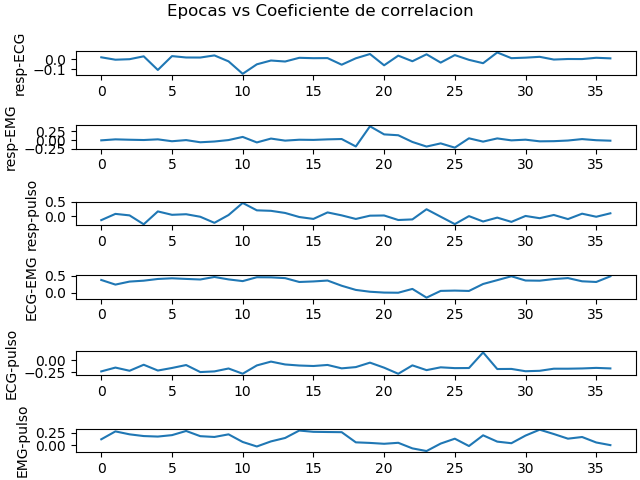
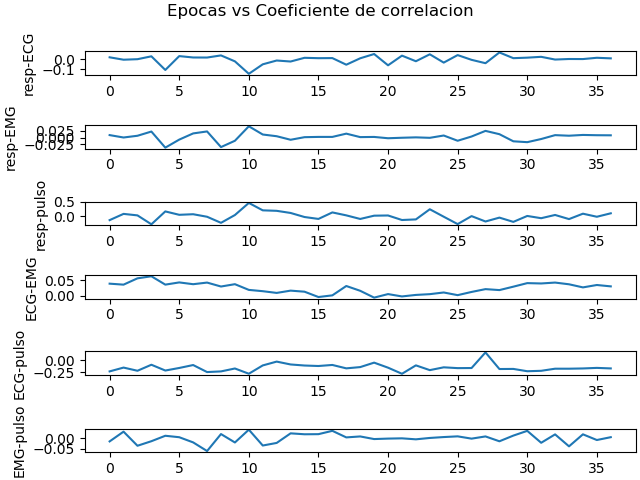
Ejercicio 2 terminado

diff --git a/src/practica3.py b/src/practica3.py
@@ -38,7 +38,6 @@ ax3.plot(t, pulso_f); ax3.set(ylabel='Pulso', xlabel='Tiempo [seg]')
 fig.suptitle('Eliminación de tendencia lineal y filtrado')
 fig.savefig(datapath + '\\..\\images\\Practica 3\\Detrendedyfilt.png')
 
-
 ini = np.array([])
 ini = np.append(ini, [Resp_f[0:15*sr], ECG_f[0:15*sr], EMG[0:15*sr], pulso_f[0:15*sr]]).reshape(4, 15000) 
 ada = np.array([])
@@ -164,40 +163,19 @@ ax0.bar(bins0, hist0, width=0.05, alpha=0.3, label='Etapa inicial');ax0.bar(bins
 fig.suptitle('Histogramas de la señal de pulso reescalada')
 fig.savefig(datapath + '\\..\\images\\Practica 3\\HistPulRee.png')
 
-# Obtenemos envolvente y área de la señal de EMG para sacar la correlación con otras señales
-def envolvente(signal):
-    from scipy.signal import hilbert
-    env = hilbert(signal)
-    env = np.abs(env)
-    A   = env.sum()/sr
-    return env, A
-
-EMGenv, EMGA = envolvente(EMG)
-inienv, iniA = envolvente(iniree[2,:])
-adaenv, adaA = envolvente(adaree[2,:])
-ejeenv, ejeA = envolvente(ejeree[2,:])
-finenv, finA = envolvente(finree[2,:])
-print("""Área de EMG\nEtapa inicial: %.4f"""%iniA)
-print("""Etapa adaptación: %.4f"""%adaA)
-print("""Etapa ejercicio: %.4f"""%ejeA)
-print("""Etapa final: %.4f"""%finA)
-print("""EMG: %.4f"""%EMGA)
-fig, ax = plt.subplots()
-ax.plot(EMGenv)
-
 # Obtenemos segmentos de tiempo de las cuatro señales, la obtener su matriz de correación
 segt = 3
-resp = MCI.epochs(Resp_f, segt, sr)
-ECG  = MCI.epochs(ECG_f, segt, sr)
-EMG  = MCI.epochs(EMGenv, segt, sr)
-pulso = MCI.epochs(pulso_f, segt, sr)
+resp1 = MCI.epochs(Resp_f, segt, sr)
+ECG1  = MCI.epochs(ECG_f, segt, sr)
+EMG1  = MCI.epochs(EMG, segt, sr)
+pulso1 = MCI.epochs(pulso_f, segt, sr)
 
-r1 = MCI.coef_corr(resp, ECG)
-r2 = MCI.coef_corr(resp, EMG)
-r3 = MCI.coef_corr(resp, pulso)
-r4 = MCI.coef_corr(ECG, EMG)
-r5 = MCI.coef_corr(ECG, pulso)
-r6 = MCI.coef_corr(EMG, pulso)
+r1 = MCI.coef_corr(resp1, ECG1)
+r2 = MCI.coef_corr(resp1, EMG1)
+r3 = MCI.coef_corr(resp1, pulso1)
+r4 = MCI.coef_corr(ECG1, EMG1)
+r5 = MCI.coef_corr(ECG1, pulso1)
+r6 = MCI.coef_corr(EMG1, pulso1)
 
 fig, (ax0, ax1, ax2, ax3, ax4, ax5) = plt.subplots(nrows=6, constrained_layout=True)
 ax0.plot(r1); ax0.set(ylabel='resp-ECG')
@@ -209,6 +187,78 @@ ax5.plot(r6); ax5.set(ylabel='EMG-pulso')
 fig.suptitle('Epocas vs Coeficiente de correlacion')
 fig.savefig(datapath + '\\..\\images\\Practica 3\\Correlacion.png')
 
+#Coherencia 
+f, co11 = MCI.cohe(ini[0,:], ini[1, :], sr)
+f, co21 = MCI.cohe(ada[0,:], ada[1,:], sr)
+f, co31 = MCI.cohe(eje[0,:], eje[1,:], sr)
+f, co41 = MCI.cohe(fin[0,:], fin[1, :], sr)
+fig, (ax0, ax1, ax2, ax3) = plt.subplots(nrows=4, constrained_layout=True, sharex=True)
+ax0.plot(f, co11); ax0.set(ylabel='Inicial')
+ax1.plot(f, co21); ax1.set(ylabel='Adaptacion')
+ax2.plot(f, co31); ax2.set(ylabel='Ejercicio')
+ax3.plot(f, co41); ax3.set(xlabel='Hz', ylabel='Final')
+fig.suptitle('Coherencia entre el respirograma y el ECG')
+fig.savefig(datapath + '\\..\\images\\Practica 3\\CohResECG.png')
+
+f, co12 = MCI.cohe(ini[0,:], ini[2, :], sr)
+f, co22 = MCI.cohe(ada[0,:], ada[2,:], sr)
+f, co32 = MCI.cohe(eje[0,:], eje[2,:], sr)
+f, co42 = MCI.cohe(fin[0,:], fin[2, :], sr)
+fig, (ax0, ax1, ax2, ax3) = plt.subplots(nrows=4, constrained_layout=True, sharex=True)
+ax0.plot(f, co12); ax0.set(ylabel='Inicial')
+ax1.plot(f, co22); ax1.set(ylabel='Adaptacion')
+ax2.plot(f, co32); ax2.set(ylabel='Ejercicio')
+ax3.plot(f, co42); ax3.set(xlabel='Hz', ylabel='Final')
+fig.suptitle('Coherencia entre el respirograma y el EMG')
+fig.savefig(datapath + '\\..\\images\\Practica 3\\CohResEMG.png')
+
+f, co13 = MCI.cohe(ini[0,:], ini[3, :], sr)
+f, co23 = MCI.cohe(ada[0,:], ada[3,:], sr)
+f, co33 = MCI.cohe(eje[0,:], eje[3,:], sr)
+f, co43 = MCI.cohe(fin[0,:], fin[3, :], sr)
+fig, (ax0, ax1, ax2, ax3) = plt.subplots(nrows=4, constrained_layout=True, sharex=True)
+ax0.plot(f, co13); ax0.set(ylabel='Inicial')
+ax1.plot(f, co23); ax1.set(ylabel='Adaptacion')
+ax2.plot(f, co33); ax2.set(ylabel='Ejercicio')
+ax3.plot(f, co43); ax3.set(xlabel='Hz', ylabel='Final')
+fig.suptitle('Coherencia entre el respirograma y la señal de pulso')
+fig.savefig(datapath + '\\..\\images\\Practica 3\\CohResPul.png')
+
+f, co14 = MCI.cohe(ini[1,:], ini[2, :], sr)
+f, co24 = MCI.cohe(ada[1,:], ada[2,:], sr)
+f, co34 = MCI.cohe(eje[1,:], eje[2,:], sr)
+f, co44 = MCI.cohe(fin[1,:], fin[2, :], sr)
+fig, (ax0, ax1, ax2, ax3) = plt.subplots(nrows=4, constrained_layout=True, sharex=True)
+ax0.plot(f, co14); ax0.set(ylabel='Inicial')
+ax1.plot(f, co24); ax1.set(ylabel='Adaptacion')
+ax2.plot(f, co34); ax2.set(ylabel='Ejercicio')
+ax3.plot(f, co44); ax3.set(xlabel='Hz', ylabel='Final')
+fig.suptitle('Coherencia entre el ECG y el EMG')
+fig.savefig(datapath + '\\..\\images\\Practica 3\\CohECGEMG.png')
+
+f, co15 = MCI.cohe(ini[1,:], ini[3, :], sr)
+f, co25 = MCI.cohe(ada[1,:], ada[3,:], sr)
+f, co35 = MCI.cohe(eje[1,:], eje[3,:], sr)
+f, co45 = MCI.cohe(fin[1,:], fin[3, :], sr)
+fig, (ax0, ax1, ax2, ax3) = plt.subplots(nrows=4, constrained_layout=True, sharex=True)
+ax0.plot(f, co15); ax0.set(ylabel='Inicial')
+ax1.plot(f, co25); ax1.set(ylabel='Adaptacion')
+ax2.plot(f, co35); ax2.set(ylabel='Ejercicio')
+ax3.plot(f, co45); ax3.set(xlabel='Hz', ylabel='Final')
+fig.suptitle('Coherencia entre el ECG y la señal de pulso')
+fig.savefig(datapath + '\\..\\images\\Practica 3\\CohECGPulso.png')
+
+f, co16 = MCI.cohe(ini[2,:], ini[3, :], sr)
+f, co26 = MCI.cohe(ada[2,:], ada[3,:], sr)
+f, co36 = MCI.cohe(eje[2,:], eje[3,:], sr)
+f, co46 = MCI.cohe(fin[2,:], fin[3, :], sr)
+fig, (ax0, ax1, ax2, ax3) = plt.subplots(nrows=4, constrained_layout=True, sharex=True)
+ax0.plot(f, co16); ax0.set(ylabel='Inicial')
+ax1.plot(f, co26); ax1.set(ylabel='Adaptacion')
+ax2.plot(f, co36); ax2.set(ylabel='Ejercicio')
+ax3.plot(f, co46); ax3.set(xlabel='Hz', ylabel='Final')
+fig.suptitle('Coherencia entre el EMG y la señal de pulso')
+fig.savefig(datapath + '\\..\\images\\Practica 3\\CohEMGPul.png')
 
 #Detector de picos
 ECG_peaks, p = signal.find_peaks(ECG_f, height=1)
@@ -229,8 +279,23 @@ ax0.plot(FC); ax0.set(ylabel='Frecuencia ECG')
 ax1.plot(FP); ax1.set(ylabel='Frecuencia Pulso')
 fig.suptitle('Frecuencia cardiaca')
 fig.savefig(datapath + '\\..\\images\\Practica 3\\Frecuencia.png')
-plt.show()
 
 FC = np.delete(FC, -1)
 cor = MCI.coef_corr(FC[np.newaxis, :], FP[np.newaxis, :])
 print('Coefieciente de correlacion entre las señales: %.3f' %cor)
+
+# Obtenemos envolvente y área de la señal de EMG para sacar la correlación con otras señales
+EMGenv, EMGA= MCI.envolvente(EMG, sr)
+inienv, iniA= MCI.envolvente(iniree[2,:], sr)
+adaenv, adaA= MCI.envolvente(adaree[2,:], sr)
+ejeenv, ejeA= MCI.envolvente(ejeree[2,:], sr)
+finenv, finA= MCI.envolvente(finree[2,:], sr)
+print("""Área de EMG
+Etapa inicial: %.4f
+Etapa adaptación: %.4f
+Etapa ejercicio: %.4f
+Etapa final: %.4f
+EMG: %.4f""" %(iniA, adaA, ejeA, finA, EMGA))
+fig, ax = plt.subplots()
+ax.plot(EMGenv)
+plt.show()

diff --git a/src/MCI.py b/src/MCI.py
@@ -3,6 +3,7 @@ import matplotlib.pyplot as plt
 from scipy.fftpack import fft 
 from scipy.signal import windows
 import scipy.signal as sg
+from scipy.signal import hilbert
 
 def FFT (signal, sr):
     w = np.linspace(0, 2*sr, len(signal))
@@ -107,3 +108,16 @@ def coef_corr(signal1, signal2):
         z = S[0,1]/np.product( np.sqrt(S.diagonal() ) )
         r = np.append(r, z)
     return r 
+
+def cohe(s1, s2, sr):
+    f, Pxy = sg.csd(s1, s2, sr)
+    f, Pxx = sg.welch(s1, sr)
+    f, Pyy = sg.welch(s2, sr)
+    coh = (np.abs(Pxy)**2)/(Pxx*Pyy)
+    return f, coh
+    
+def envolvente(signal, sr):
+    env = hilbert(signal)
+    env = np.abs(env)
+    A = (0.5*( env[:-1] + env[1:] ).sum())/sr
+    return env, A 
